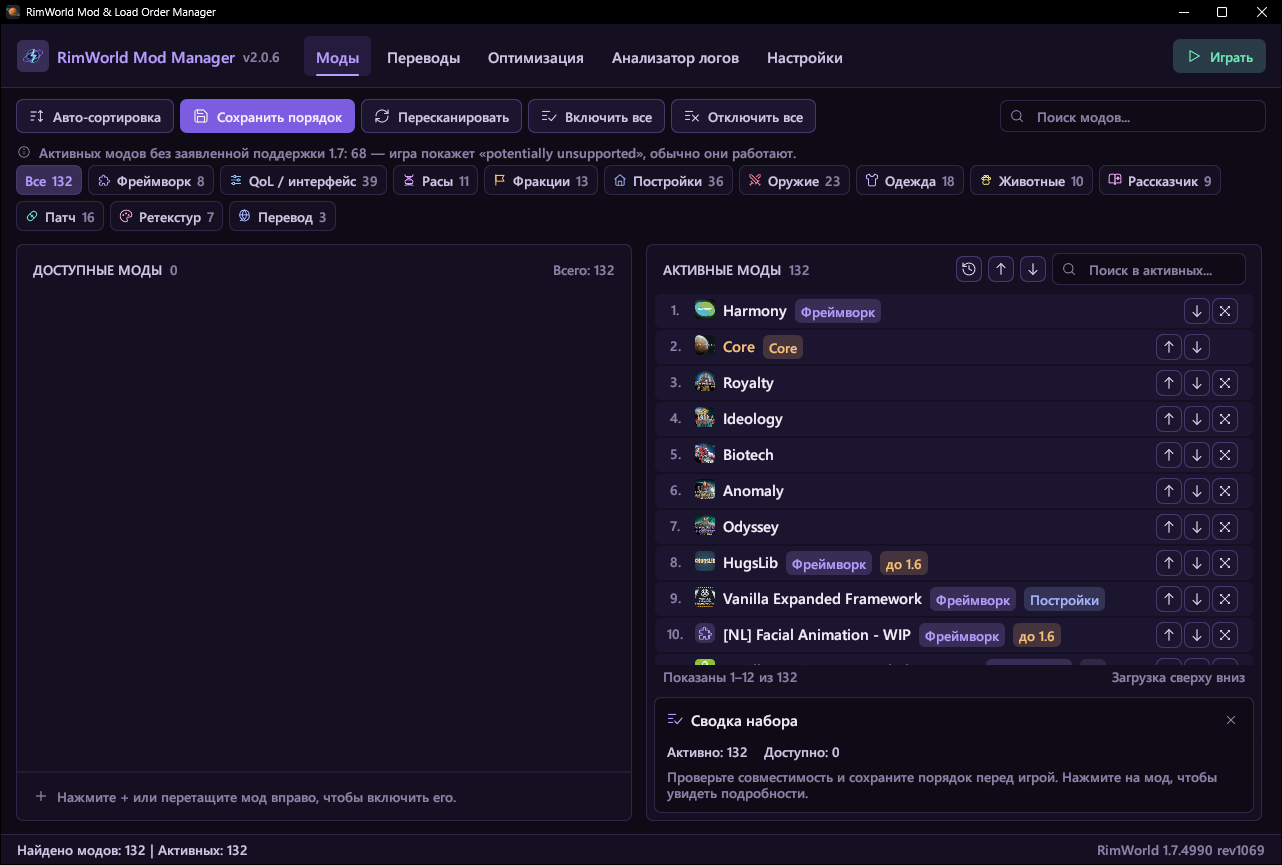
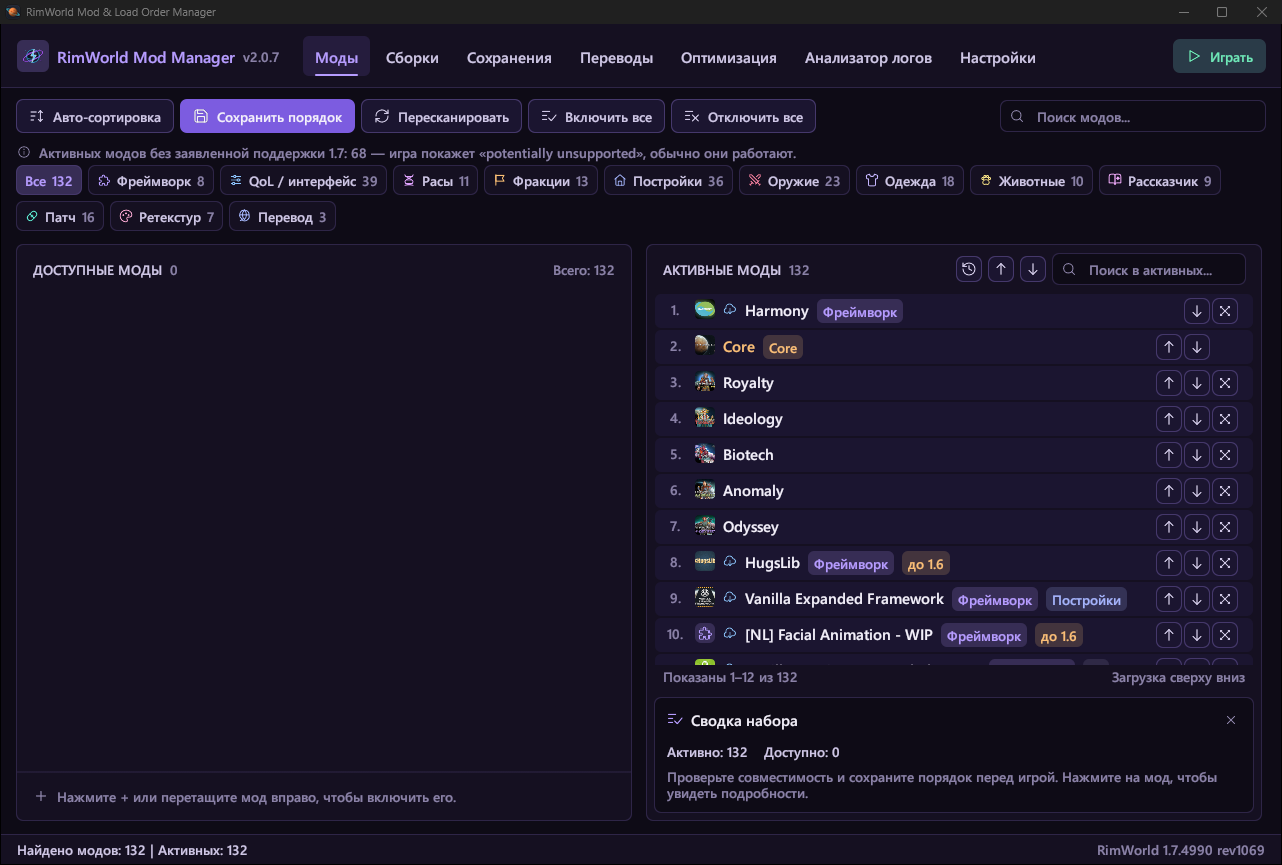
Version 2.0.7
- Modpacks tab: several mod lists to switch between, shared with the game's own mod lists; import, export and copy as a list with Workshop links
- Missing mods of a modpack or a save: subscribe to all of them in one click
- Saves tab: which mods each save was made with, and enable them exactly as in the save
- Find the broken mod: a step-by-step search from the Log Analyzer, with dependencies and pairs of mods that only break together
- Montserrat font option, 13 languages for the translation search, Steam or local mark in the mod lists

diff --git a/README.md b/README.md
@@ -2,7 +2,7 @@
 
 Менеджер модов и порядка загрузки для RimWorld 1.6 (Unity) и 1.7 (Waylith). Написан на Rust, интерфейс на egui. Работает под Windows.
 
-*Mod and load order manager for RimWorld 1.6 and 1.7 (Windows): load order sorting with RimSort community rules, mod categories, dependency checks, translation search on Steam Workshop, DDS texture optimizer, Player.log analyzer. The interface is available in Russian and English.*
+*Mod and load order manager for RimWorld 1.6 and 1.7 (Windows): load order sorting with RimSort community rules, mod categories, dependency checks, modpacks, mods of a save, a step-by-step search for the broken mod, translation search on Steam Workshop, DDS texture optimizer, Player.log analyzer. The interface is available in Russian and English.*
 
 ![Main window](docs/screenshot.png)
 
@@ -17,9 +17,12 @@
 - **Список модов.** Включение и выключение, перемещение (в том числе мышью, по одному или группой), поиск, категории по содержимому мода (расы, фракции, постройки, оружие, QoL и т.д.) с фильтром. Предупреждения о зависимостях, несовместимостях, копиях одного мода и модах без поддержки текущей версии игры.
 - **Сортировка.** Учитывает About.xml (зависимости, `loadAfter`/`loadBefore`, блоки `*ByVersion`) и базу правил сообщества RimSort, которую можно скачать или импортировать из RimPy.
 - **Сохранение ModsConfig.xml** с бэкапом. Моды, которых нет на диске, при сохранении не теряются. В окне «История» можно вернуть порядок из любого из 30 последних сохранений.
-- **Переводы.** Поиск переводов сразу для всех активных модов: показываются только переводы, в названии которых есть название мода и выбранный язык; подписка на отмеченные одной кнопкой. Можно искать и для одного выбранного мода. Удаление переводов выбранного языка — с подтверждением и в Корзину.
-- **Оптимизатор текстур** (для 1.6 и старше). PNG/JPG конвертируются в DDS: BC7 для текстур с прозрачностью, BC1 для остальных, с мипмапами. Все созданные файлы записываются в журнал, поэтому откат удаляет их полностью. На 1.7 конвертация не нужна: игра сжимает текстуры сама. Вместо неё есть сброс кэша текстур игры.
+- **Сборки.** Несколько списков модов, между которыми можно переключаться: «Включить», «Включить и играть», копия, переименование. Хранятся в папке игры `ModLists`, поэтому видны и в меню модов самой игры. Импорт `.rml` и чужого `ModsConfig.xml`, экспорт `.rml`, копирование списком со ссылками Workshop. Для недостающих модов — подписка одной кнопкой.
+- **Сохранения.** Для каждого сейва видно, с какими модами он сделан: что включено, что выключено, чего нет на диске. «Включить как в сейве» ставит ровно его моды и порядок; список можно сохранить как сборку.
+- **Переводы.** Поиск переводов сразу для всех активных модов на одном из 13 популярных языков: показываются только переводы, в названии которых есть название мода и выбранный язык; подписка на отмеченные одной кнопкой. Можно искать и для одного выбранного мода. Удаление переводов выбранного языка — с подтверждением и в Корзину.
+- **Оптимизатор текстур** (1.6 и 1.7). PNG/JPG конвертируются в DDS: BC7 для текстур с прозрачностью, BC1 для остальных, с мипмапами. На 1.7 текстуры сохраняются в той ориентации, которую ждёт игра; «Перевернуть текстуры» исправляет конвертированные для другой версии. Все созданные файлы записываются в журнал, поэтому откат удаляет их полностью. Есть и сброс кэша текстур игры.
 - **Анализатор логов.** Разбирает Player.log обоих форматов (1.6 и 1.7), ищет моды-виновники и готовит текст запроса для ИИ.
+- **Поиск сломанного мода.** Когда лог не указывает на виновника: программа выключает половину модов, вы запускаете игру и отвечаете, осталась ли проблема, — и так до одного мода (или пары модов, которые ломаются только вместе). Зависимости включаются вместе с модами, любой шаг можно отменить, в конце всё возвращается.
 - **Запуск игры** с параметрами под нужную версию.
 - **Новые версии.** Раз в день программа проверяет релизы на GitHub и показывает плашку рядом с версией. Сама ничего не скачивает; проверку можно выключить в настройках.
 
